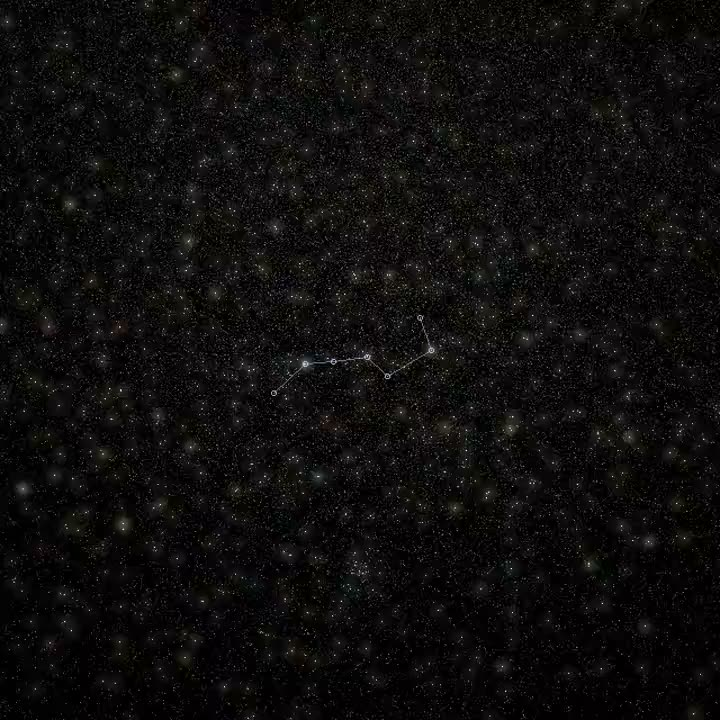
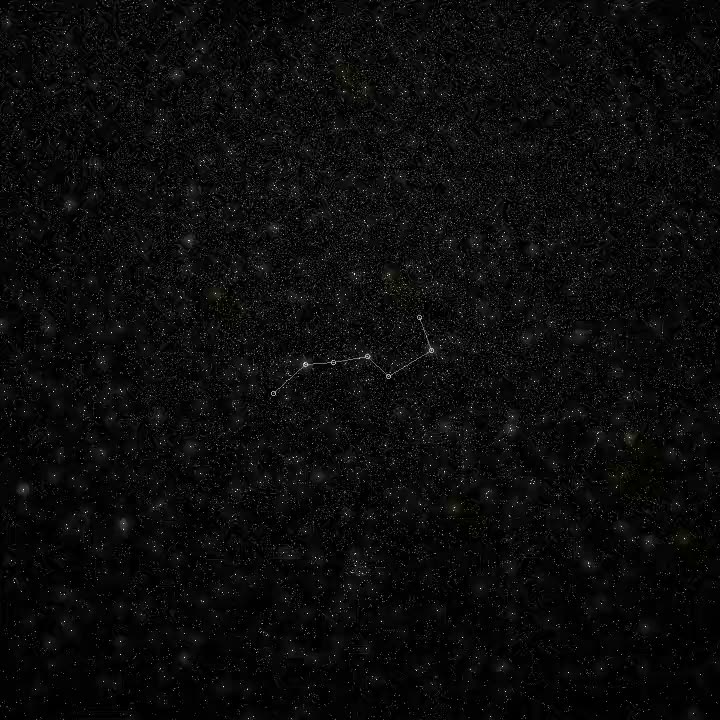
润色Pages文案并降低视频辉光

diff --git a/docs/index.html b/docs/index.html
@@ -423,6 +423,10 @@
       background: #000;
     }
 
+    .media-card video.hide-controls {
+      cursor: none;
+    }
+
     .media-body {
       padding: 22px;
     }
@@ -599,27 +603,27 @@
     </section>
 
     <section id="bortle" class="section" aria-labelledby="bortle-title">
-      <p class="eyebrow">交互结果 01</p>
+      <p class="eyebrow">光污染如何遮蔽银河</p>
       <h2 id="bortle-title">从 Bortle 1 扫到 9，观察银河变淡。</h2>
       <div class="showcase">
         <div class="controls">
           <h3 id="bortleName">Bortle 1：顶级暗空</h3>
-          <p class="note-copy">把鼠标从上往下扫，或点击某一行。每一行是一种天空亮度，展开后就是对应等级的完整预览。</p>
+          <p class="note-copy">从上到下依次为 Bortle 1 至 Bortle 9 的天空亮度等级。悬停或点击某一行，可展开该等级的完整天区预览。</p>
           <div class="bortle-slices" id="bortleSlices" role="group" aria-label="Bortle 1 到 9 图像切片"></div>
           <p class="bortle-current" id="bortleCopy" aria-live="polite">Bortle 1 顶级暗空下，银河和暗尘埃结构同时可见。</p>
-          <h3 style="margin-top: 26px;">同时看光污染和人眼极限星等</h3>
+          <h3 style="margin-top: 26px;">假设眼睛更灵敏，同一片天空会露出什么</h3>
           <div class="comparison-img">
-            <img src="assets/bortle_eye_grid.jpg" alt="Bortle 暗空等级和有效极限星等的交叉对比图">
+            <img src="assets/bortle_eye_grid.jpg" alt="Bortle 光污染等级与有效极限星等增量的星空模拟对比图">
           </div>
           <div class="note">
-            <p>横轴表示能看到多暗的星（极限星等），纵轴表示天空从暗到亮（Bortle 等级）。所有小图使用同一套亮度基准，没有单独给城市天空提亮。</p>
+            <p>横轴为假设输入：若人眼极限星等在普通裸眼基准上提高若干等（对应 NELM 增量），同一片天空会逐渐显露更多暗星与银河结构。纵轴为 Bortle 光污染等级。所有小图共用同一套亮度映射基准，城市天空未做单独提亮。</p>
           </div>
         </div>
       </div>
     </section>
 
     <section id="flight" class="section" aria-labelledby="flight-title">
-      <p class="eyebrow">交互结果 02</p>
+      <p class="eyebrow">换一个位置，星座就不再是平面图案</p>
       <h2 id="flight-title">移动位置，星座散开，银河仍在。</h2>
       <div class="media-grid">
         <article class="media-card">
@@ -645,14 +649,14 @@
 
     <section id="boundary" class="section boundary" aria-labelledby="boundary-title">
       <aside class="boundary-aside">
-        <strong>项目的边界</strong>
-        <p>这个项目的目标是定性正确和可解释性。测光级精度验证不在设计范围之内。</p>
+        <strong>读图边界</strong>
+        <p>这些图像适合观察趋势、结构和相对变化。</p>
       </aside>
       <div class="copy">
-        <p class="eyebrow">必须说清楚的部分</p>
+        <p class="eyebrow">数据覆盖范围</p>
         <h2 id="boundary-title">Gaia 视差数据覆盖的是太阳附近的数据球。</h2>
-        <p>飞行视频诚实地展示星座散开、星场重投影、以及数据覆盖的物理边界。当你在视频中移动到数据球边缘时，会看到恒星开始变稀疏：这就是可观测范围的尽头。人类目前还没有银河系的真实俯视照片；常见的银河俯视图来自多波段观测和模型反演。</p>
-        <p>页面图像还经过一道 tone mapping（亮度映射）。恒星的星等转物理亮度、天球坐标投影、视差重投影：这些步骤有物理公式作为锚点。最终要把天文级动态范围的亮度放进普通屏幕（SDR），就需要额外的亮度压缩。代码把这两层分开处理，避免将显示参数说成物理参数。</p>
+        <p>飞行视频展示星座散开、星场重投影、以及数据覆盖的物理边界。当你在视频中移动到数据球边缘时，会看到恒星开始变稀疏：这就是可观测范围的尽头。人类目前还没有银河系的真实俯视照片；常见的银河俯视图来自多波段观测和模型反演。</p>
+        <p>页面图像还经过一道 tone mapping（亮度映射）。恒星星等、天球坐标和视差重投影决定了星光在画面中的相对关系；普通屏幕能显示的亮度范围有限，所以最终图像还需要压缩动态范围。因此这些图适合观察整体趋势与结构，不宜直接作为测光级精度的证据。</p>
       </div>
     </section>
 
@@ -661,7 +665,7 @@
         <div>
           <p class="eyebrow">复现与二次开发</p>
           <h2 id="repo-title">代码、数据脚本、测试和渲染命令都在 GitHub 仓库里。</h2>
-          <p class="lead">正常渲染和测试不需要密钥。Gaia 缓存和完整输出留在本地，Git 里只放代码、文档、测试和网页压缩资产。</p>
+          <p class="lead">仓库包含复现实验所需的代码、文档和测试。完整分辨率图像与视频可按页面中的命令在本地生成。</p>
           <p>入口命令：<code>uv venv</code>、<code>uv pip install -r requirements.txt</code>、<code>python -m pytest tests/ -q</code>。</p>
         </div>
         <a class="button primary" data-repo-link href="https://github.com/grapeot/gaia_allsky">打开 GitHub 仓库</a>
@@ -670,7 +674,7 @@
   </main>
 
   <footer>
-    <p>Gaia 全天星空实验 · 图像和视频由本仓库的渲染脚本生成，网页使用压缩后的预览资产。</p>
+    <p>Gaia 全天星空实验 · 页面展示压缩预览；完整分辨率输出可按仓库命令生成。</p>
   </footer>
 
   <script>
@@ -726,6 +730,33 @@
         link.href = `https://github.com/${owner}/${pathRepo}`;
       });
     }
+
+    document.querySelectorAll("video").forEach((video) => {
+      let hideControlsTimer;
+      const showControls = () => {
+        clearTimeout(hideControlsTimer);
+        video.controls = true;
+        video.classList.remove("hide-controls");
+        if (!video.paused) {
+          hideControlsTimer = setTimeout(() => {
+            video.controls = false;
+            video.classList.add("hide-controls");
+          }, 1400);
+        }
+      };
+
+      video.addEventListener("play", showControls);
+      video.addEventListener("pause", showControls);
+      video.addEventListener("ended", showControls);
+      video.addEventListener("pointermove", showControls);
+      video.addEventListener("focus", showControls);
+      video.addEventListener("click", () => {
+        if (!video.controls && !video.paused) {
+          video.controls = true;
+          video.pause();
+        }
+      });
+    });
   </script>
 </body>
 </html>

diff --git a/src/render_big_dipper_video.py b/src/render_big_dipper_video.py
@@ -45,7 +45,7 @@ def build_parser():
     p.add_argument("--end-look-dir", help="Override final look direction as x,y,z in equatorial Cartesian coordinates.")
     p.add_argument("--gamma", type=float, default=2.2)
     p.add_argument("--pct", type=float, default=99.7)
-    p.add_argument("--bloom-strength", type=float, default=0.35)
+    p.add_argument("--bloom-strength", type=float, default=0.175)
     p.add_argument("--bloom-sigma", type=float, default=3.0)
     p.add_argument("--no-dipper-overlay", action="store_true", help="Disable Big Dipper guide lines in perspective mode.")
     p.add_argument("--overlay-width", type=int, default=1)

diff --git a/src/render_vr_video.py b/src/render_vr_video.py
@@ -33,7 +33,7 @@ def build_parser():
     p.add_argument("--workers", type=int, default=os.cpu_count() or 1)
     p.add_argument("--gamma", type=float, default=2.2)
     p.add_argument("--pct", type=float, default=99.7)
-    p.add_argument("--bloom-strength", type=float, default=0.5)
+    p.add_argument("--bloom-strength", type=float, default=0.25)
     p.add_argument("--bloom-sigma", type=float, default=6.0)
     p.add_argument("--save-hdr", action="store_true", help="Also keep 16-bit TIFF frames.")
     p.add_argument("--crf", type=int, default=16)

diff --git a/docs/working.md b/docs/working.md
@@ -18,7 +18,7 @@
 
 - **路径恢复为 L 形。** 飞向北斗七星会在第一段就离开银盘（北斗七星方向接近银极），与叙事冲突。共享路径恢复：第一段沿银心方向，第二段飞向银极。前向相机独立：第一段视线为北斗七星中心（附引导线），第二段视线为 `-galactic_pole` 回望被离开的区域。
 
-- **北斗七星优先轨迹。** 第一段目标 `big_dipper_direction * leg1_pc`，第二段目标 `galactic_center_direction * leg1_pc + galactic_pole_direction * leg2_pc`。辉光降至 `--bloom-strength 0.35 --bloom-sigma 3.0`。`pytest` -> 28 passed。
+- **北斗七星优先轨迹。** 第一段目标 `big_dipper_direction * leg1_pc`，第二段目标 `galactic_center_direction * leg1_pc + galactic_pole_direction * leg2_pc`。前向视频辉光曾降至 `--bloom-strength 0.35 --bloom-sigma 3.0`，后续 Pages 预览再降半到 `--bloom-strength 0.175`。`pytest` -> 28 passed。
 
 - **缩短第一段至 50pc。** 400pc 会飞过变形窗口。旧预览第 68 帧对应约 48.9pc。默认值：`--leg1-pc 50`, `--target-gc-pc 400`, `--leg2-pc 2500`。第二段目标独立于 `leg1_pc`：`target = galactic_center_direction * target_gc_pc + galactic_pole_direction * leg2_pc`。`pytest` -> 29 passed。
 
@@ -69,6 +69,8 @@
     --output outputs/big_dipper_forward_hires.mp4
   ```
   输出为 `outputs/vr_equirect_hires.mp4`（H.264，`yuv420p`，4096×2048，60fps，600 帧）和 `outputs/big_dipper_forward_hires.mp4`（H.264，`yuv420p`，2160×2160，60fps，600 帧）。`pytest` -> 48 passed。
+
+- **Pages 视频辉光降半。** `src/render_big_dipper_video.py` 默认 `--bloom-strength` 从 0.35 改为 0.175；`src/render_vr_video.py` 默认从 0.5 改为 0.25。页面预览视频和 poster 使用降半后的 bloom 重新生成。
 
 ## Lessons Learned
 

diff --git a/README.md b/README.md
@@ -120,6 +120,7 @@ python src/render_big_dipper_video.py \
 ```
 
 两个视频都会先并行渲染 PNG 帧，再用 ffmpeg 合成 SDR H.264 mp4。帧目录默认保留，便于检查和重新编码。
+当前默认辉光强度偏克制：VR equirectangular 为 `--bloom-strength 0.25`，前向透视为 `--bloom-strength 0.175`。
 
 ## 代码结构
 